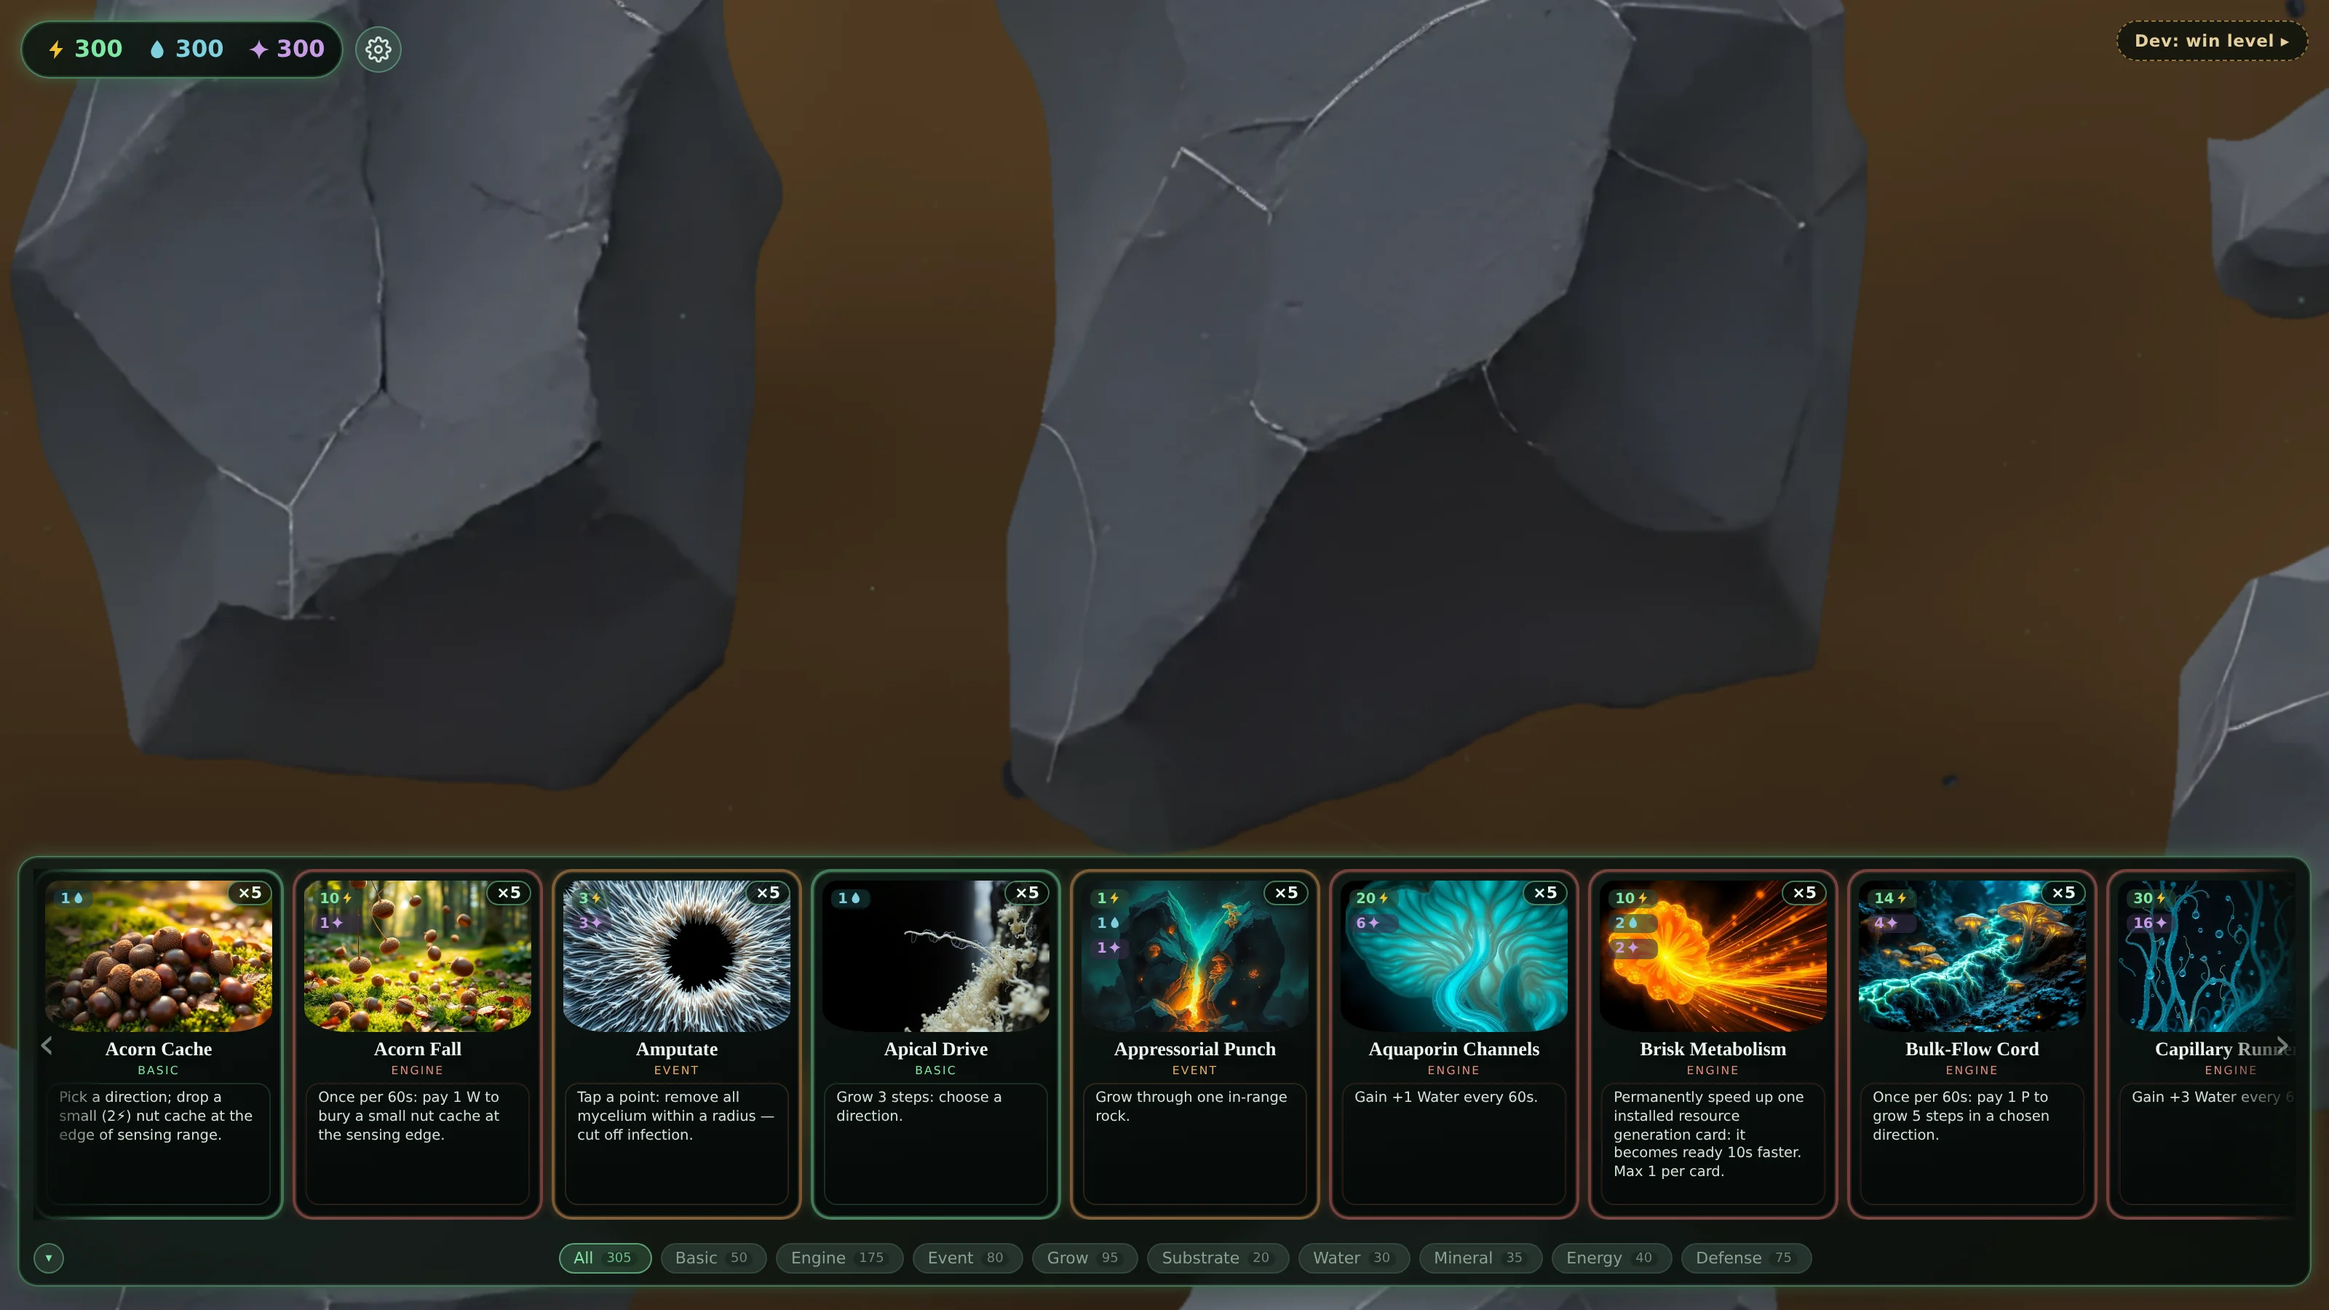
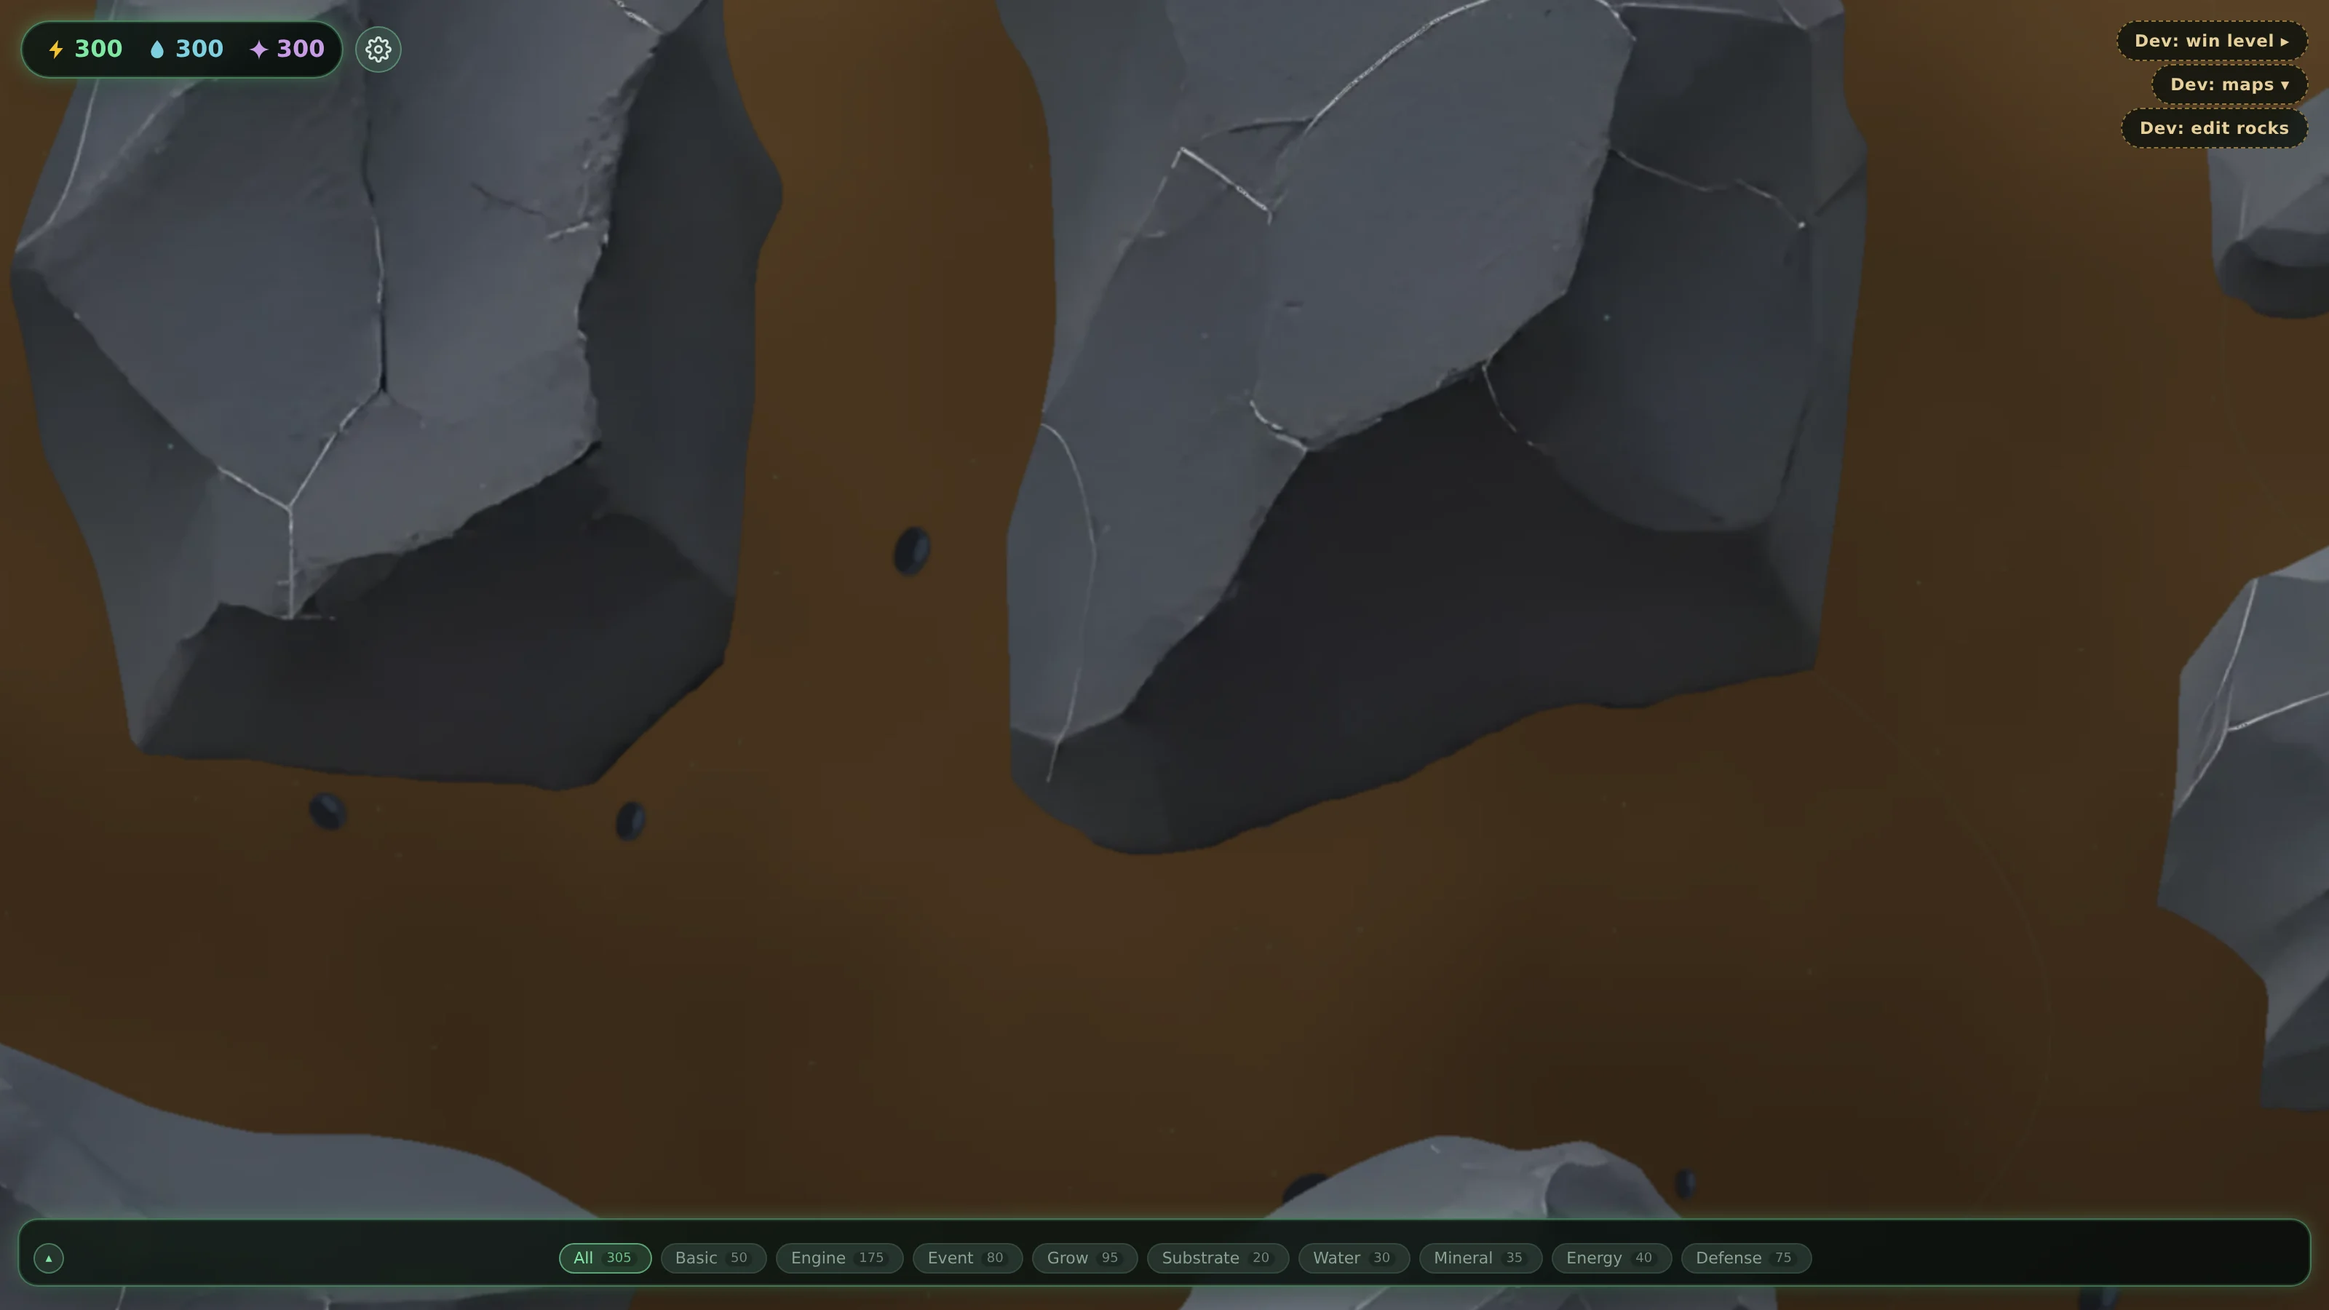
editor: move/delete placed objects, a third food kind, top toolbar, less chrome
Five things, all from the owner working in the editor rather than reading it.

PLACED OBJECTS ARE EDITABLE. They were write-only: drop one in the wrong spot and
the only recourse was Clear pending and start again. They now select, drag and
delete like rocks, with arrows to nudge. Two details that are not incidental:
picking is done in SCREEN space, because a marker is a fixed-size dot however far
out you are zoomed and a world-space radius would be unclickable at 0.5x and
swallow half the map at 3x; and a drag only moves `y` on objects that HAVE one —
lake, ant, mountain, city and house are positioned by x alone and buildLevel
ignores their y, so inventing one would write a field that silently does nothing.
`selAdded` is a separate set from the rocks' `sel` because they index different
lists and a shared index would quietly address the wrong one.

THE THIRD FOOD KIND. stampFood knows duff, cache and cache-engine; only the first
two were offered. Engine cache is the one drawn as red autumn leaves that pays an
engine card rather than plain energy.

TOOLBAR IS A TOP STRIP. The left column ate a quarter of the width, and editing is
mostly dragging things across the map — the workspace is what the tool is for.

CARD CAROUSEL STARTS MINIMISED and THE LEVEL INTRO IS SKIPPED, both under the dev
flag only. Hopping between 59 maps meant dismissing 59 intros, and the carousel
takes the bottom third of the screen.

Three bugs found by running it rather than reading it:
[…]

diff --git a/index.html b/index.html
@@ -1408,25 +1408,37 @@
       background:rgba(14,18,12,0.82); border:1px dashed rgba(230,180,92,0.6); border-radius:999px;
       padding:6px 12px; backdrop-filter:blur(4px); }
     #devEditBtn.on { color:#0d100c; background:#e6b45c; border-style:solid; }
-    #devEditPanel { position:fixed; left:14px; top:14px; z-index:32; width:236px; display:none;
-      flex-direction:column; gap:9px; padding:12px; background:rgba(10,14,10,0.95);
-      border:1px dashed rgba(230,180,92,0.5); border-radius:12px; backdrop-filter:blur(6px);
-      max-height:calc(100vh - 28px); overflow-y:auto; }
+    /* A horizontal STRIP across the top, not a left column. The column ate a quarter of the
+       width, and level editing is mostly dragging things across the map — the workspace is
+       what the tool is for. Everything is on one row-wrapping flex line, with the sliders
+       narrowed so a full set still fits beside the buttons. */
+    #devEditPanel { position:fixed; left:0; right:0; top:0; z-index:32; display:none;
+      flex-direction:row; flex-wrap:wrap; align-items:center; gap:6px 10px;
+      padding:8px 148px 8px 12px;      /* right pad clears the Dev: win/maps/edit buttons */
+      background:rgba(10,14,10,0.94); border-bottom:1px dashed rgba(230,180,92,0.5);
+      backdrop-filter:blur(6px); max-height:38vh; overflow-y:auto; }
     #devEditPanel.open { display:flex; }
-    #devEditPanel h4 { margin:0; font:700 10px "Segoe UI", system-ui, sans-serif;
-      letter-spacing:.13em; text-transform:uppercase; color:rgba(230,207,154,0.6); }
-    #devEditPanel label { display:block; font:600 10.5px "Segoe UI", system-ui, sans-serif;
-      color:#e6cf9a; letter-spacing:.02em; }
-    #devEditPanel label b { float:right; font-variant-numeric:tabular-nums; color:#fff; }
-    #devEditPanel input[type=range] { width:100%; accent-color:#e6b45c; margin-top:3px; }
-    #devEditPanel .ee-row { display:flex; gap:6px; flex-wrap:wrap; }
+    #devEditPanel h4 { margin:0 0 0 6px; font:700 9px "Segoe UI", system-ui, sans-serif;
+      letter-spacing:.13em; text-transform:uppercase; color:rgba(230,207,154,0.5);
+      align-self:center; border-left:1px solid rgba(230,180,92,0.25); padding-left:10px; }
+    #devEditPanel h4:first-child { border-left:none; padding-left:0; margin-left:0; }
+    #devEditPanel label { display:flex; align-items:center; gap:5px; width:132px;
+      font:600 10px "Segoe UI", system-ui, sans-serif; color:#e6cf9a; letter-spacing:.02em; }
+    #devEditPanel label b { font-variant-numeric:tabular-nums; color:#fff; min-width:26px; }
+    #devEditPanel input[type=range] { flex:1; min-width:52px; accent-color:#e6b45c; margin:0; }
+    #devEditPanel .ee-row { display:flex; gap:5px; flex-wrap:wrap; align-items:center; }
+    /* The hint is the one thing that must not push the controls onto a second screen. */
+    #devEditPanel .ee-hint { flex:1 1 100%; order:99; margin:0; }
     #devEditPanel button { cursor:pointer; font:600 10.5px "Segoe UI", system-ui, sans-serif;
       color:#e6cf9a; background:rgba(230,180,92,0.10); border:1px solid rgba(230,180,92,0.4);
       border-radius:7px; padding:5px 9px; }
     #devEditPanel button:hover { background:rgba(230,180,92,0.24); color:#fff; }
-    #devEditPanel .ee-hint { font:400 10.5px/1.5 "Segoe UI", system-ui, sans-serif;
-      color:rgba(230,207,154,0.65); }
-    #devEditPanel .ee-stat { font:600 10.5px "Segoe UI", system-ui, sans-serif; color:#fff; }
+    #devEditPanel .ee-hint { font:400 10px/1.45 "Segoe UI", system-ui, sans-serif;
+      color:rgba(230,207,154,0.6); }
+    #devEditPanel .ee-stat { font:600 10.5px "Segoe UI", system-ui, sans-serif; color:#fff;
+      white-space:nowrap; }
+    /* The panel is fixed to the top, so the two dev buttons under it would be covered. */
+    #devEditPanel.open ~ #devMapBtn, #devEditPanel.open ~ #devEditBtn { top:auto; }
 
     /* ============================ FIRST-RUN TUTORIAL ============================
        Clean black & white popups with a slight white border-glow (mirrors the
@@ -16195,7 +16207,13 @@ class UI {
     this.armed = null;                // {kind:'hand'|'offer', index?, name} a card awaiting Confirm
     this.armedOffer = null;           // name of the highlighted draft card awaiting Draft-confirm
     this.handFilter = 'all';          // active card-hand filter group key
-    this.handOpen = true;             // the hand carousel starts visible on every screen; only the Show/Hide button toggles it
+    // Starts CLOSED under the dev flag: level editing is most of what a dev session does
+    // now, and the carousel takes the bottom third of the workspace. The Show/Hide button
+    // still works, and a release build (dev off) is unaffected.
+    // `state.config` rather than CONFIG: this module does not import CONFIG, and reaching
+    // for it threw at construction — which took the whole boot with it, since UI is built
+    // before the first frame. state.config is the deep clone the run is actually using.
+    this.handOpen = !(state && state.config && state.config.dev && state.config.dev.enabled);
     this.defaultHint = '';            // cached card-mode hint, restored on cancel
     this.el = {};
     this._build();
@@ -20261,6 +20279,21 @@ function revealMap() {
   // full frame, so snap the canvas fully opaque (no fade) behind a solid black
   // "Level N" overlay, and let that overlay fade ITSELF out on click — that fade
   // is the map fading in. On dismiss it runs onContinue (any deferred tutorial).
+  // The level intro is skipped under the dev flag — hopping between 59 maps means dismissing
+  // it 59 times, and it says nothing useful about a traced map that has no threats yet. Its
+  // callbacks still run, so nothing downstream notices it did not appear.
+  if (pendingLevelIntro && state && state.config && state.config.dev && state.config.dev.enabled) {
+    const info = pendingLevelIntro; pendingLevelIntro = null;
+    // onDismiss is NOT called. Its only job is `ui.setHandOpen(true)` — re-expanding the
+    // carousel that the intro collapsed on its way in — and with no intro there was nothing
+    // to collapse. Calling it anyway is what re-opened the hand a line after the dev flag
+    // had deliberately closed it. onContinue does carry real work (the deferred level
+    // advance), so that one still runs.
+    if (info.onContinue) { try { info.onContinue(); } catch (_) {} }
+    canvas.style.transition = 'none';
+    canvas.style.opacity = '1';
+    return;
+  }
   if (pendingLevelIntro) {
     const info = pendingLevelIntro; pendingLevelIntro = null;
     canvas.style.transition = 'none';
@@ -21071,7 +21104,29 @@ const rockEdit = {
   filter: { brightness: 1, contrast: 1, saturate: 1 },
   place: null,      // armed placement kind, or null
   added: [],        // objects placed this session, not yet stamped — see PLACEABLE
+  selAdded: new Set(),   // which of `added` are selected; a separate set from the rocks'
+                         // because the two are different lists and a shared index would
+                         // silently address the wrong one
 };
+
+// Placed markers are picked in SCREEN space, not world space: a marker is a fixed-size dot
+// however far out you are zoomed, so a world-space radius would be unclickable at 0.5x and
+// swallow half the map at 3x.
+function placedAt(sx, sy) {
+  for (let i = rockEdit.added.length - 1; i >= 0; i--) {
+    const o = rockEdit.added[i];
+    const sub = state.substrate;
+    const c = camera.worldToScreen(+o.x || 0, o.y != null ? +o.y : sub.surfaceY + 40);
+    if (Math.hypot(c.x - sx, c.y - sy) <= 15) return i;
+  }
+  return -1;
+}
+function deletePlaced() {
+  const gone = [...rockEdit.selAdded].sort((a, b) => b - a);
+  for (const i of gone) rockEdit.added.splice(i, 1);
+  rockEdit.selAdded.clear();
+  updateEditPanel(); uiDirty = true;
+}
 
 // What can be dropped into a map, and the object each one writes.
 //
@@ -21091,6 +21146,10 @@ const PLACEABLE = [
     make: (x, y) => ({ t: 'food', kind: 'duff', x: Math.round(x), y: Math.round(y), r: 1, energy: 2 }) },
   { id: 'cache',     label: 'Nut cache',  colour: '#c98a3a',
     make: (x, y) => ({ t: 'food', kind: 'cache', x: Math.round(x), y: Math.round(y), r: 1, energy: 4 }) },
+  // The third kind the engine knows (stampFood -> 'cache-engine'), drawn as red autumn
+  // leaves and the one that pays an engine card rather than plain energy.
+  { id: 'cache-engine', label: 'Engine cache', colour: '#d4564a',
+    make: (x, y) => ({ t: 'food', kind: 'cache-engine', x: Math.round(x), y: Math.round(y), r: 1, energy: 4 }) },
   { id: 'ant',       label: 'Ant',        colour: '#ff9f4a',
     make: (x, y) => ({ t: 'ant', x: Math.round(x) }) },
   { id: 'nematode',  label: 'Nematode',   colour: '#ff6f6f',
@@ -21222,7 +21281,11 @@ function updateEditPanel() {
   if (!p) return;
   const n = rockEdit.sel.size, tot = editSprites().length;
   const st = p.querySelector('#eeSel');
-  if (st) st.textContent = n ? `${n} of ${tot} selected` : `${tot} rocks — none selected`;
+  const np = rockEdit.selAdded.size;
+  if (st) {
+    st.textContent = np ? `${np} placed selected`
+      : n ? `${n} of ${tot} rocks` : `${tot} rocks`;
+  }
   const pend = p.querySelector('#eePend');
   if (pend) {
     const k = rockEdit.place ? (PLACEABLE.find((q) => q.id === rockEdit.place) || {}).label : null;
@@ -21531,6 +21594,9 @@ function begin(newState) {
   // even with the dev-tools panel off; remove for a public release.
   window.__game = {
     get state() { return state; }, camera, performAction, tickWorld,
+    // The rock editor's live state. Module-scoped like everything else here, so a test that
+    // wants to assert on a selection or a pending placement has no other way in.
+    rockEdit,
     draw: () => resolveCardOp(drawCard(state)),
     skip: () => resolveCardOp(skipRound(state)),
     play: (i, ctx) => resolveCardOp(playCard(state, i, ctx)),
@@ -22137,11 +22203,31 @@ function setupInput() {
         return;
       }
     }
+    // A PLACED marker wins over a rock under the same click: it is smaller, it is what you
+    // just put there, and it is drawn on top.
+    const ph = placedAt(e.clientX - rect.left, e.clientY - rect.top);
+    if (ph >= 0) {
+      if (e.shiftKey) {
+        if (rockEdit.selAdded.has(ph)) rockEdit.selAdded.delete(ph); else rockEdit.selAdded.add(ph);
+      } else if (!rockEdit.selAdded.has(ph)) {
+        rockEdit.selAdded = new Set([ph]);
+        rockEdit.sel.clear();
+      }
+      rockEdit.drag = { wx: w.x, wy: w.y, placed: true };
+      canvas.setPointerCapture(e.pointerId);
+      updateEditPanel(); uiDirty = true;
+      e.stopPropagation(); e.preventDefault();
+      return;
+    }
     const hit = rockAt(w.x, w.y);
     if (hit < 0) {
-      if (!e.shiftKey) { rockEdit.sel.clear(); updateEditPanel(); uiDirty = true; }
+      if (!e.shiftKey) {
+        rockEdit.sel.clear(); rockEdit.selAdded.clear();
+        updateEditPanel(); uiDirty = true;
+      }
       return;                                   // empty space: let the camera pan as usual
     }
+    if (!e.shiftKey) rockEdit.selAdded.clear();
     if (e.shiftKey) {
       if (rockEdit.sel.has(hit)) rockEdit.sel.delete(hit); else rockEdit.sel.add(hit);
     } else if (!rockEdit.sel.has(hit)) {
@@ -22159,6 +22245,20 @@ function setupInput() {
     const w = camera.screenToWorld(e.clientX - rect.left, e.clientY - rect.top);
     const dx = w.x - rockEdit.drag.wx, dy = w.y - rockEdit.drag.wy;
     rockEdit.drag.wx = w.x; rockEdit.drag.wy = w.y;
+    if (rockEdit.drag.placed) {
+      // A placed object is not in the world yet, so nothing to re-solidify — just move the
+      // marker. Objects with no y (lake, ant, mountain, city, house) are positioned by x
+      // alone and their y is ignored by buildLevel, so do not invent one.
+      for (const i of rockEdit.selAdded) {
+        const o = rockEdit.added[i];
+        if (!o) continue;
+        o.x = Math.round(o.x + dx);
+        if (o.y != null) o.y = Math.round(o.y + dy);
+      }
+      uiDirty = true;
+      e.stopPropagation(); e.preventDefault();
+      return;
+    }
     for (const s of editTargets()) { s.x += dx; s.y += dy; }
     // Collision is rebuilt on every move rather than on release: the point of editing in
     // the running game is that what you see is what blocks, and a mask that lags the art
@@ -22317,6 +22417,21 @@ function setupInput() {
       editNudge((e.code === 'ArrowRight' ? step : e.code === 'ArrowLeft' ? -step : 0),
                 (e.code === 'ArrowDown' ? step : e.code === 'ArrowUp' ? -step : 0));
       e.preventDefault();
+    }
+    else if (rockEdit.on && rockEdit.selAdded.size &&
+             (e.code === 'Delete' || e.code === 'Backspace')) { deletePlaced(); e.preventDefault(); }
+    else if (rockEdit.on && rockEdit.selAdded.size && !e.ctrlKey && !e.metaKey && (
+             e.code === 'ArrowLeft' || e.code === 'ArrowRight' ||
+             e.code === 'ArrowUp' || e.code === 'ArrowDown')) {
+      const step = e.shiftKey ? 25 : 3;
+      const dx = e.code === 'ArrowRight' ? step : e.code === 'ArrowLeft' ? -step : 0;
+      const dy = e.code === 'ArrowDown' ? step : e.code === 'ArrowUp' ? -step : 0;
+      for (const i of rockEdit.selAdded) {
+        const o = rockEdit.added[i];
+        if (!o) continue;
+        o.x += dx; if (o.y != null) o.y += dy;
+      }
+      uiDirty = true; e.preventDefault();
     }
     else if (rockEdit.on && rockEdit.sel.size &&
              (e.code === 'Delete' || e.code === 'Backspace')) { editDelete(); e.preventDefault(); }
@@ -24121,9 +24236,11 @@ function drawLevelRocks() {
       const pk = PLACEABLE.find((q) => q.id === (o.kind || o.t)) || {};
       const col = pk.colour || '#ffd27f';
       const c = camera.worldToScreen(+o.x || 0, o.y != null ? +o.y : sub.surfaceY + 40);
-      ctx.strokeStyle = col; ctx.fillStyle = col; ctx.lineWidth = 2;
-      ctx.setLineDash([5, 4]);
-      ctx.beginPath(); ctx.arc(c.x, c.y, 13, 0, Math.PI * 2); ctx.stroke();
+      const isSel = rockEdit.selAdded.has(rockEdit.added.indexOf(o));
+      ctx.strokeStyle = isSel ? '#ffffff' : col; ctx.fillStyle = col;
+      ctx.lineWidth = isSel ? 3 : 2;
+      ctx.setLineDash(isSel ? [] : [5, 4]);
+      ctx.beginPath(); ctx.arc(c.x, c.y, isSel ? 15 : 13, 0, Math.PI * 2); ctx.stroke();
       ctx.setLineDash([]);
       ctx.beginPath(); ctx.arc(c.x, c.y, 3, 0, Math.PI * 2); ctx.fill();
       ctx.fillText(o.kind || o.t, c.x, c.y - 19);
